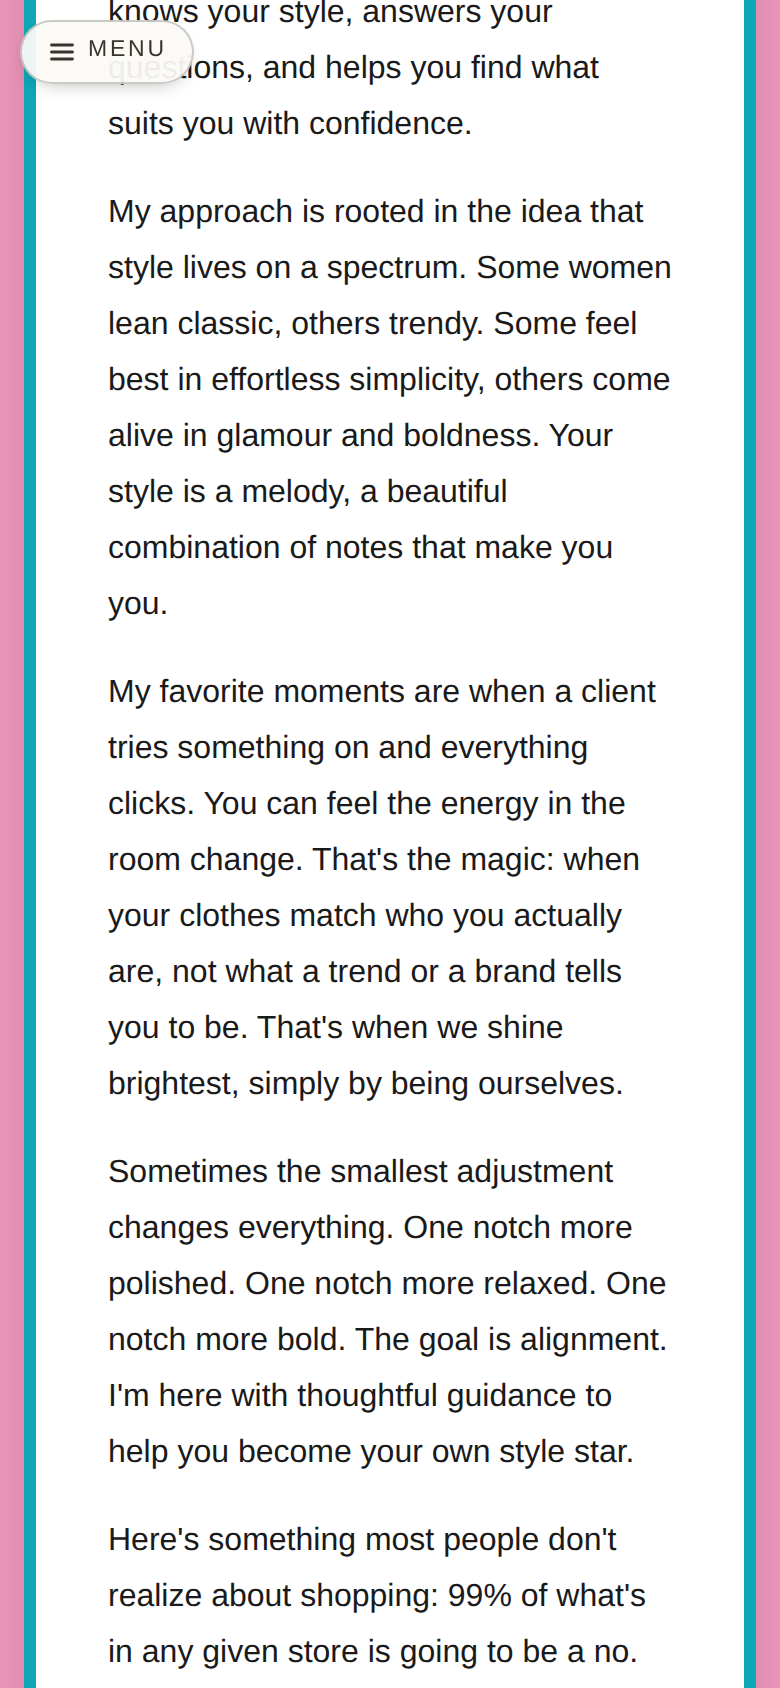
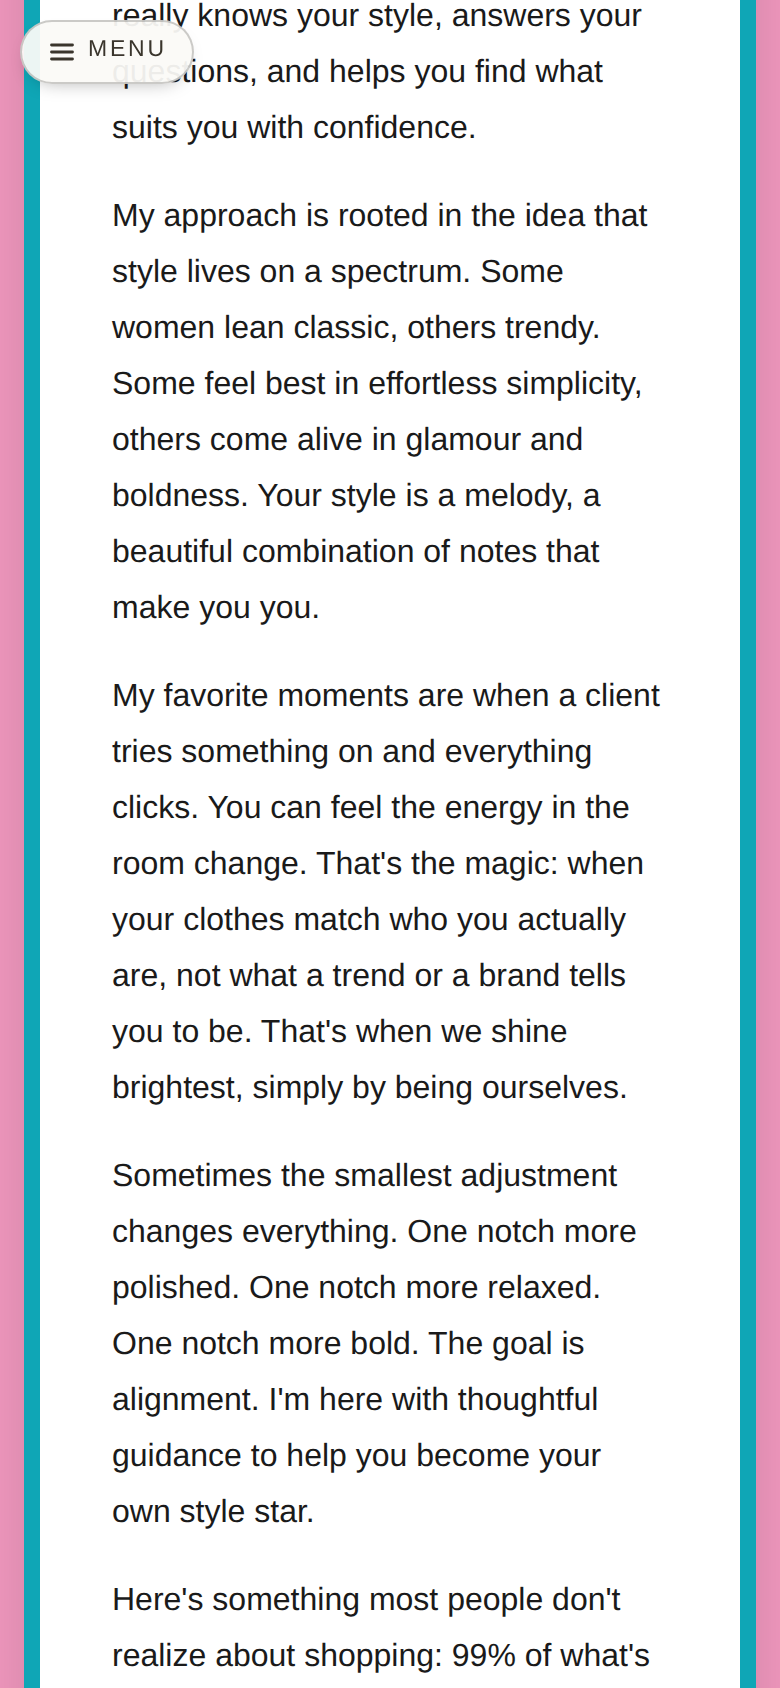
My Story turquoise frame thickened again, 6px -> 8px (her ask)
Claude-Session: https://claude.ai/code/session_016L23CfkCzWBThRfBBj9SQc

diff --git a/index.html b/index.html
@@ -106,7 +106,7 @@ input[type=range]::-moz-range-thumb{width:30px;height:30px;border-radius:50%;bac
    card — the white and pink inset rings are gone ("no white line") — and the
    page behind it bleeds her signature pink (html.story-velvet). The card
    scrolls with the words, so the frame can never sit on top of them. */
-.ss.story-mirror{position:relative;border-radius:0;border:6px solid #0FA6B6;background:#fff;
+.ss.story-mirror{position:relative;border-radius:0;border:8px solid #0FA6B6;background:#fff;
   box-shadow:0 8px 34px rgba(0,0,0,.16)}
 /* Shop your style: her personal boutique storefront — black store window with a
    slight beveled inner edge, on the Mall's brick wall (body.shop-brick) */

diff --git a/CLAUDE.md b/CLAUDE.md
@@ -74,7 +74,9 @@ the meter ran out today of all days.
    wl-velvet is removed; wladd's overflow census still exempts `.wl-rod`. Proofs:
    `scratchpad/storyfix-{top,mid}.png` (frame scrolls with words, no white line), `rodfix-top.png`
    (insets 0/0). Verified: wladd 102 · nav 80 · menu 87 · e2e 29 green.
-   - **My Story border thickened 4px → 6px** (her same-message ask: "slightly thicker").
+   - **My Story border thickened 4px → 6px → 8px** (her ask, twice: "slightly thicker", then "a little
+     thicker" again — 8px is her current pick; if she asks once more, render 10 and 12 side by side
+     rather than inching).
 3. Same evening micro-rounds, all hers: lead box restored to the full warm sentence with "item"
    wording, centered, tucked -10px under the heart; Back top:6px; **the wishing button is SQUARED and
    says "+ Add anything you're wishing for"** (both surfaces; tracking .04em/padding 8 hold one line at
